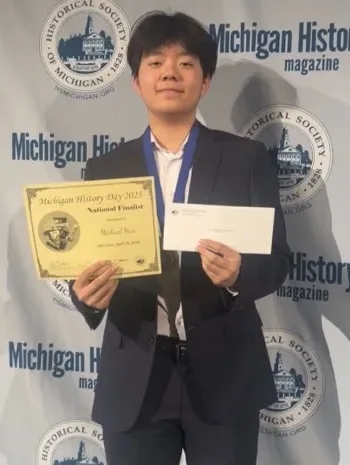
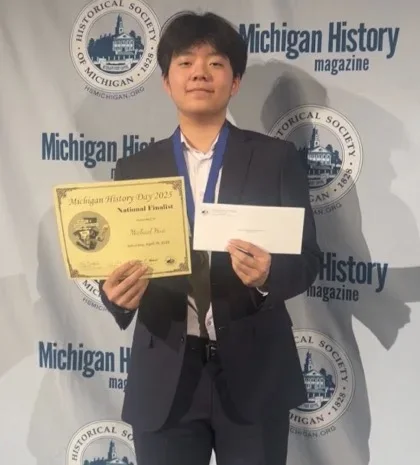
Trim the baked-in photo mattes and size the gallery to the pixels we have
Three of these are phone snapshots, so the fix is to stop displaying them
larger than they are rather than to sharpen them.

Two photos carried a light matte border baked into the file, at a uniform
luminance of 222 -- the empty white space on the left and right. It was
not a layout artifact and no CSS could remove it: moment-research-talk
had 28px at left and 18px at right, moment-brain-poster 32px at the
bottom and 18px at the right. Both trimmed away, and a matte scan across
all ten masters now reports zero on every edge.

Recrops:

- moment-brain-poster  632x492 -> 553x457, reframed so the poster title
  and his pointing hand are both in the frame instead of him being
  squeezed against the right edge
- moment-research-talk 678x292 -> 492x255, matte gone and tightened
- moment-history-award 350x465 -> 420x465, recropped wider from the
  original because the previous crop left too few pixels to display

The Michigan History photo looked soft because it was upscaled: a 350px
master in a 260px box on a 2x screen. Rather than sharpen a phone photo,
narrow the columns to 204px (168px on mobile) so every image is shown at
or under its native width, and correct the `sizes` attribute, which still
claimed 240px and made the browser pick a candidate for the old layout.
Measured at DPR 2: every one of the ten now resolves a source at least
2.0x its rendered box.

diff --git a/src/data/photos.ts b/src/data/photos.ts
@@ -61,23 +61,23 @@ export const momentsPhotos: GalleryPhoto[] = [
   },
   {
     src: "gallery/moment-brain-poster.webp",
-    sources: gallerySources("moment-brain-poster", 632),
-    width: 632,
-    height: 492,
+    sources: gallerySources("moment-brain-poster", 553),
+    width: 553,
+    height: 457,
     alt: "Michael Hua presenting his brain vessel segmentation research poster",
   },
   {
     src: "gallery/moment-history-award.webp",
-    sources: gallerySources("moment-history-award", 350),
-    width: 350,
+    sources: gallerySources("moment-history-award", 420),
+    width: 420,
     height: 465,
     alt: "Michael Hua holding his Michigan History Day National Finalist award",
   },
   {
     src: "gallery/moment-research-talk.webp",
-    sources: gallerySources("moment-research-talk", 678),
-    width: 678,
-    height: 292,
+    sources: gallerySources("moment-research-talk", 492),
+    width: 492,
+    height: 255,
     alt: "Michael Hua presenting his research to an audience in a lecture hall",
   },
   {

diff --git a/src/components/HomeGallery.tsx b/src/components/HomeGallery.tsx
@@ -16,7 +16,7 @@ export default function HomeGallery() {
                   <img
                     src={imageUrl(photo.src)}
                     srcSet={imageSrcSet(photo.sources)}
-                    sizes="(max-width: 620px) 44vw, 240px"
+                    sizes="(max-width: 620px) 42vw, 204px"
                     alt={photo.alt}
                     width={photo.width}
                     height={photo.height}

diff --git a/src/components/homegallery.css b/src/components/homegallery.css
@@ -11,7 +11,7 @@
    pack into balanced columns, so the gallery looks composed at any count.
    Add photos of any shape and they slot in without breaking the layout. */
 .home-gallery__grid {
-  column-width: clamp(168px, 23vw, 240px);
+  column-width: clamp(152px, 17vw, 204px);
   column-gap: clamp(8px, 1.1vw, 13px);
   margin: 0;
   padding: 0;

diff --git a/src/styles/responsive.css b/src/styles/responsive.css
@@ -139,7 +139,7 @@
   }
 
   .home-gallery__grid {
-    column-width: clamp(140px, 44vw, 180px);
+    column-width: clamp(132px, 42vw, 168px);
   }
 
   .project__gallery-grid,
